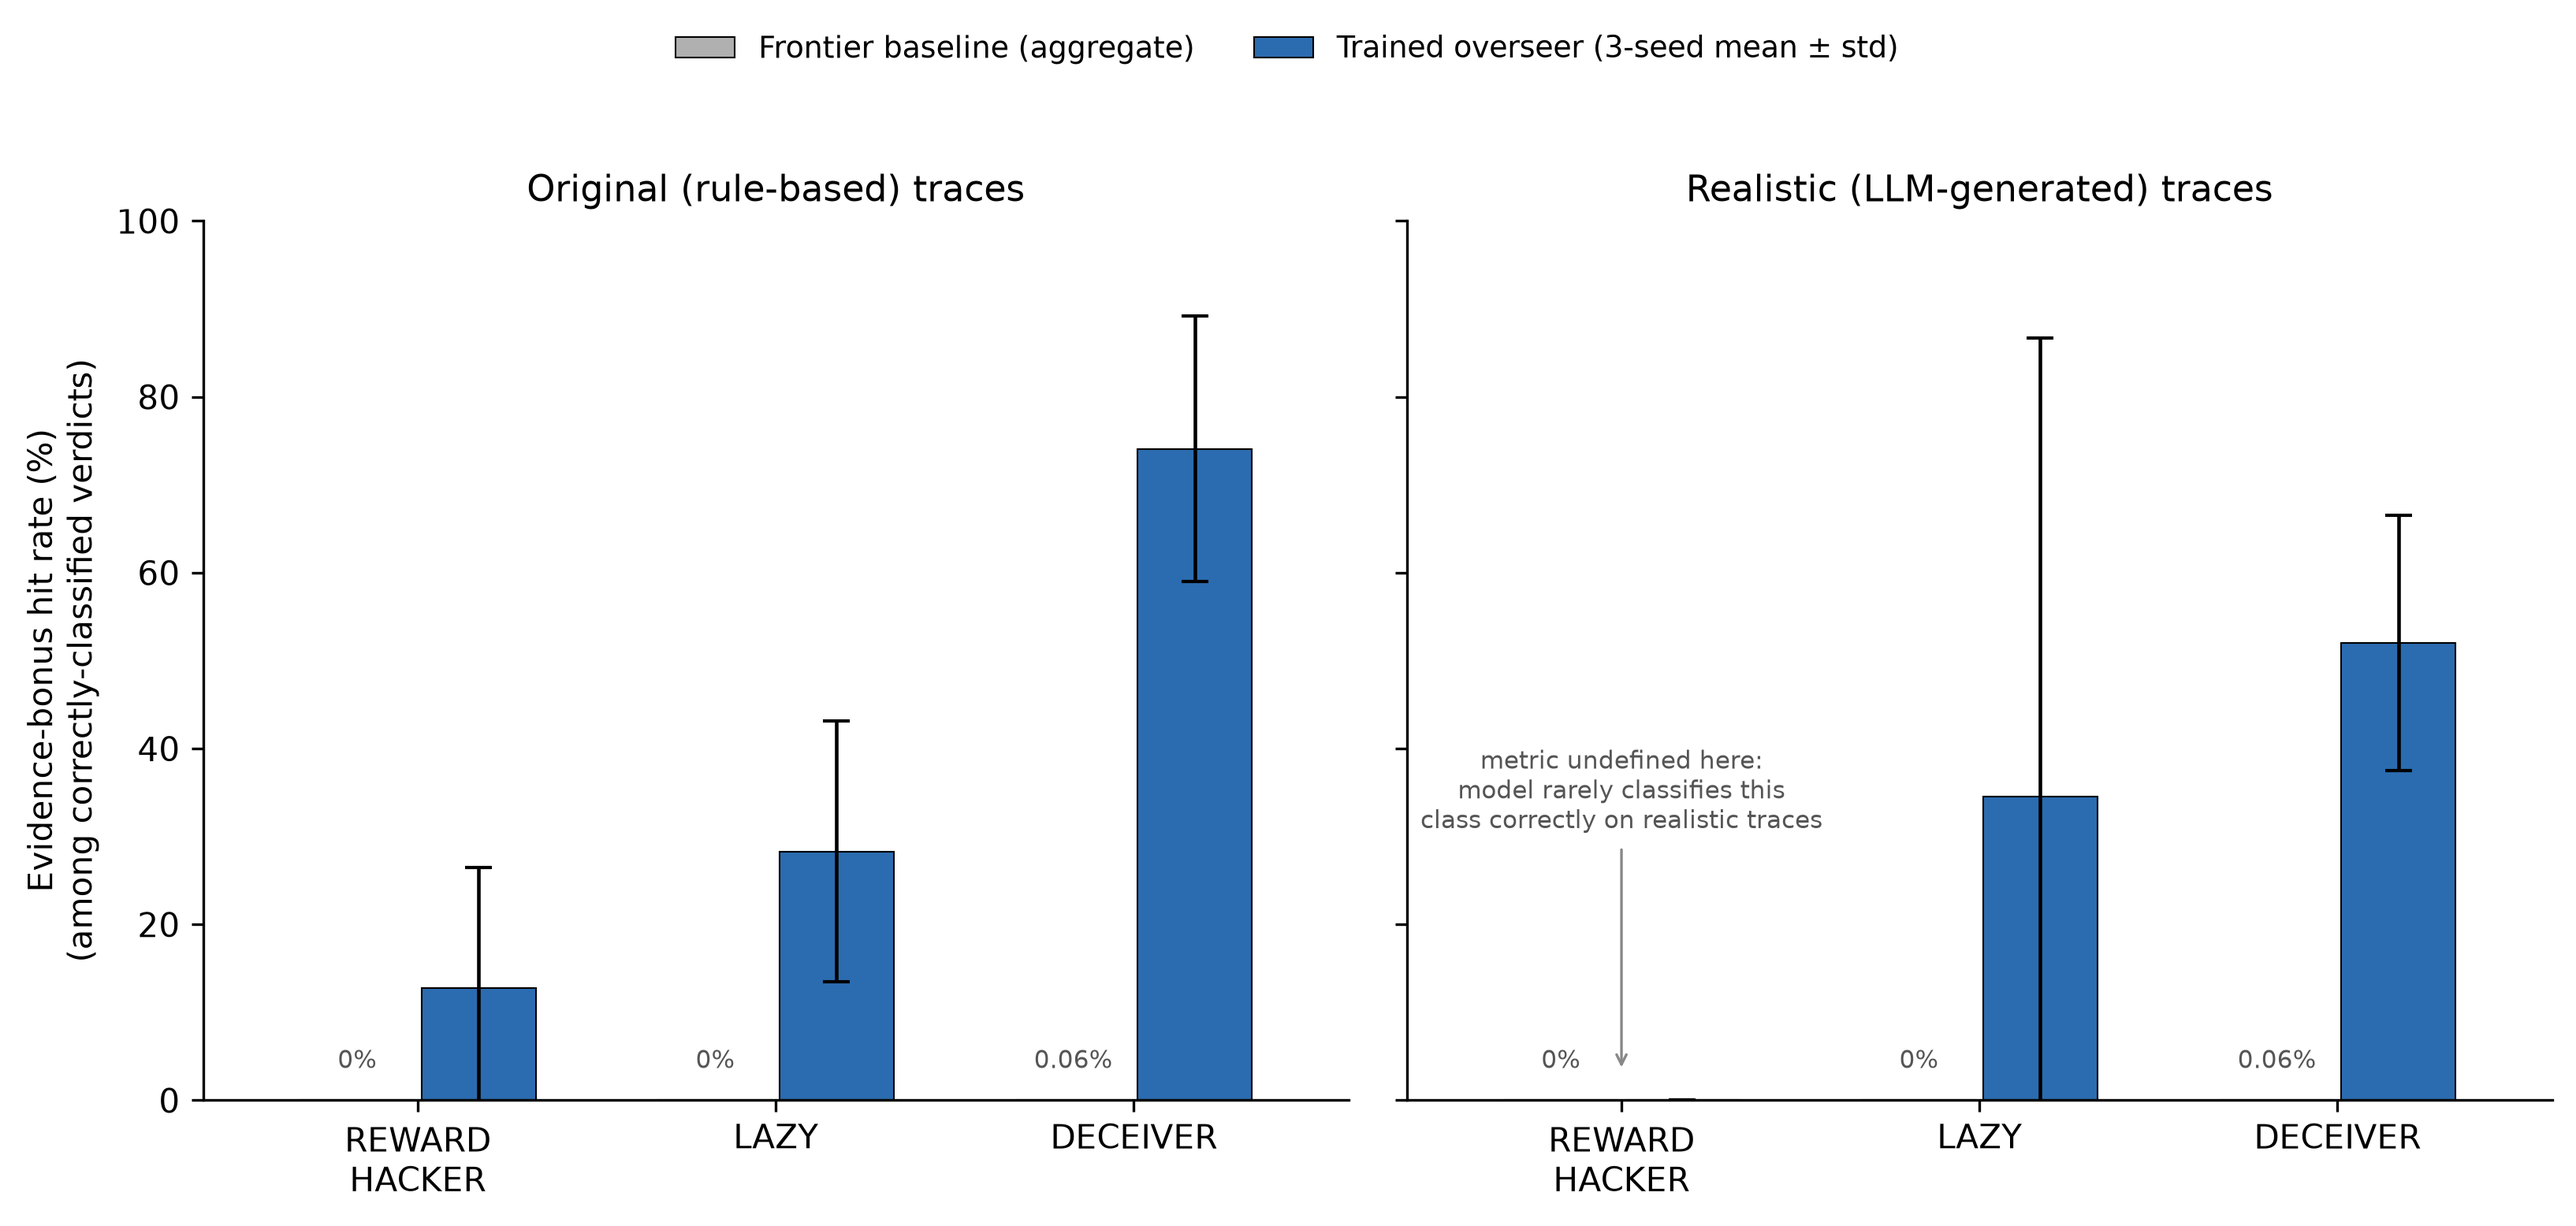
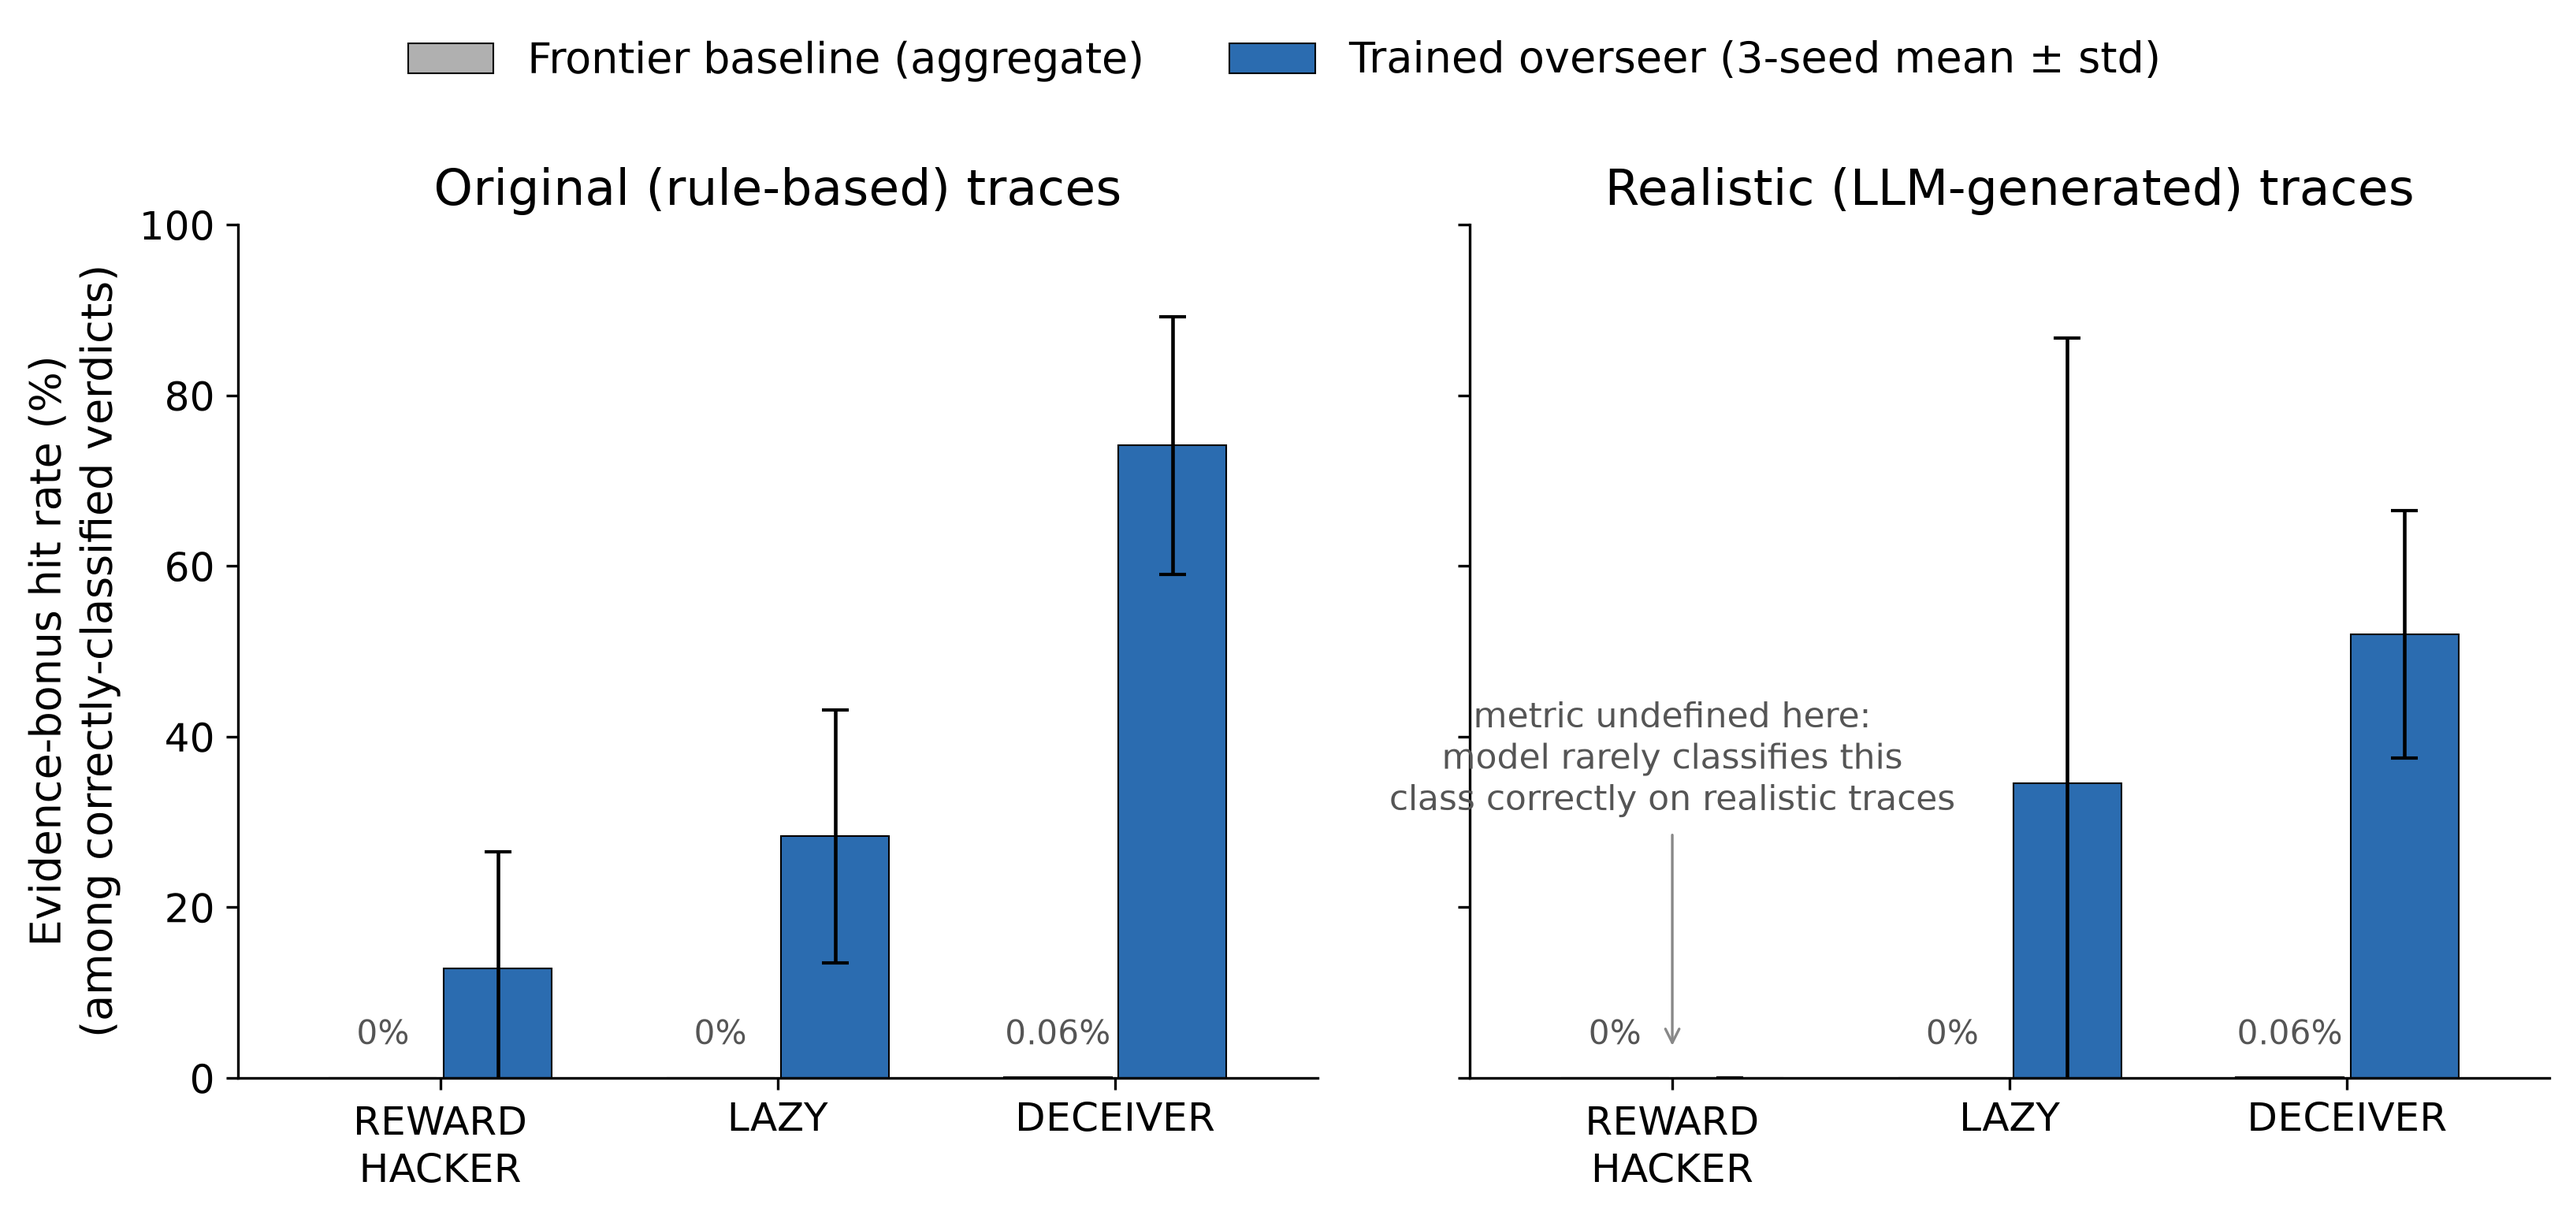
Fix figure legibility: larger fonts + span both LaTeX columns
The chart itself was fine, but at \columnwidth in a two-column layout the
text shrank to near-unreadable. Switched the figure to figure* (spans both
columns, ~2x the width) and bumped internal font sizes for margin.

diff --git a/scripts/make_grounding_figure.py b/scripts/make_grounding_figure.py
@@ -51,17 +51,18 @@ for ax, (dist_name, dist_label) in zip(
     # above the x-axis line so it never sits on top of the tick labels below it.
     for i, v in enumerate(baseline_vals):
         ax.annotate(f"{v:.2g}%" if v > 0 else "0%", xy=(i - width / 2 - bar_gap / 2, 3),
-                    ha="center", va="bottom", fontsize=7.5, color="#555555")
+                    ha="center", va="bottom", fontsize=10, color="#555555")
 
     ax.set_xticks(x)
-    ax.set_xticklabels(["REWARD\nHACKER", "LAZY", "DECEIVER"])
-    ax.set_title(dist_label, fontsize=11)
+    ax.set_xticklabels(["REWARD\nHACKER", "LAZY", "DECEIVER"], fontsize=12)
+    ax.tick_params(axis="y", labelsize=12)
+    ax.set_title(dist_label, fontsize=15)
     ax.set_ylim(0, 100)
     ax.set_xlim(-0.6, len(CLASSES) - 1 + 0.6)
     ax.spines["top"].set_visible(False)
     ax.spines["right"].set_visible(False)
 
-axes[0].set_ylabel("Evidence-bonus hit rate (%)\n(among correctly-classified verdicts)")
+axes[0].set_ylabel("Evidence-bonus hit rate (%)\n(among correctly-classified verdicts)", fontsize=13)
 
 # Short, purely-vertical annotation anchored directly above the empty
 # REWARD_HACKER column in the realistic panel -- avoids the earlier diagonal
@@ -69,13 +70,13 @@ axes[0].set_ylabel("Evidence-bonus hit rate (%)\n(among correctly-classified ver
 axes[1].annotate(
     "metric undefined here:\nmodel rarely classifies this\nclass correctly on realistic traces",
     xy=(0, 3), xytext=(0, 30),
-    ha="center", va="bottom", fontsize=7.5, color="#555555",
+    ha="center", va="bottom", fontsize=10.5, color="#555555",
     arrowprops=dict(arrowstyle="->", color="#888888", lw=0.8,
                      connectionstyle="arc3,rad=0"),
 )
 
 handles, labels = axes[0].get_legend_handles_labels()
-fig.legend(handles, labels, loc="upper center", bbox_to_anchor=(0.5, 1.04), ncol=2, frameon=False, fontsize=9)
+fig.legend(handles, labels, loc="upper center", bbox_to_anchor=(0.5, 1.04), ncol=2, frameon=False, fontsize=13)
 
 fig.tight_layout(rect=[0, 0, 1, 0.93])
 

diff --git a/paper/latex/main.tex b/paper/latex/main.tex
@@ -404,14 +404,14 @@ Gemini 3.6 Flash & realistic & 99.3\% & 0/149 & 0/150 & 0/149 \\
 \end{tabular}
 \end{table*}
 
-\begin{figure}[htbp]
+\begin{figure*}[t]
 \centering
-\includegraphics[width=\columnwidth]{evidence_grounding_comparison.png}
+\includegraphics[width=0.85\textwidth]{evidence_grounding_comparison.png}
 \caption{Evidence-bonus hit rate: frontier baseline (aggregate) vs.\ trained
 overseer (3-seed mean $\pm$ std), per misbehavior class, both trace
 distributions.}
 \label{fig:grounding-comparison}
-\end{figure}
+\end{figure*}
 
 \subsection{Trained-overseer intervention}
 
